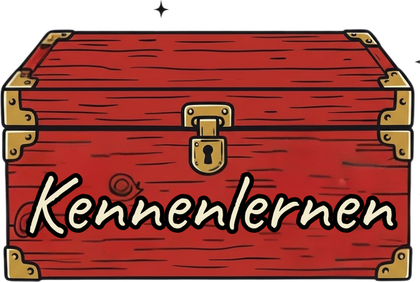
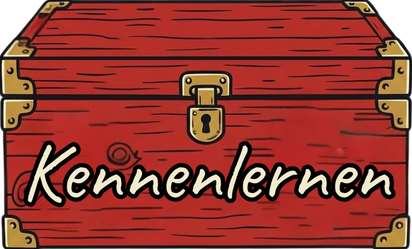
Startseite: Zitat links, Szenenwürfel rechts, Bogentitel, Kisten und Buttons in der Mitte; Kisten enger zugeschnitten
Claude-Session: https://claude.ai/code/session_01QH1x82uT2wp1H8bTWfSHFB

diff --git a/index.html b/index.html
@@ -141,7 +141,23 @@ main{flex:1;min-width:0;padding:20px 16px 110px}
 .start-grid .s2{grid-column:span 2;min-height:200px}
 .start-grid .s3{grid-column:span 3}
 .start-grid .s6{grid-column:1/-1}
-.start-grid .chest{min-height:0;display:flex;justify-content:center;align-items:center;background:none;border:0;padding:0}
+.chest{display:flex;justify-content:center;align-items:center;background:none;border:0;padding:0;min-height:0}
+.start3{display:block}
+.s-mid{display:flex;flex-direction:column;gap:18px;min-width:0}
+.s-left .quote{height:100%;justify-content:center;box-sizing:border-box}
+.startbtns{display:grid;grid-template-columns:1fr 1fr;gap:14px}
+.chests{display:grid;grid-template-columns:repeat(3,minmax(0,1fr));gap:12px;align-items:center;justify-items:center}
+.chests .chest .cbox,.home .chests .chest .cbox{height:auto;width:100%}
+.chests .chest img,.home .chests .chest img{height:auto;width:100%}
+.arc-title{margin:0}
+.arc-title svg{display:block;width:100%;height:auto;overflow:visible}
+.arc-title text{font-family:Gaegu,cursive;font-size:50px;font-weight:700;fill:var(--fg)}
+@media (min-width:900px){
+  .home .inner{max-width:1200px}
+  .start3{display:grid;grid-template-columns:220px minmax(0,1fr) 260px;gap:28px;align-items:stretch}
+  .s-right .gen{height:100%;box-sizing:border-box;justify-content:center}
+  .s-right .gen-slots{grid-template-columns:1fr 1fr}
+}
 .chest .cbox{position:relative;display:inline-block;height:150px}
 .chest img{display:block;height:150px;width:auto}
 .chest:hover img,.chest:focus-visible img{transform:translateY(-3px)}
@@ -334,17 +350,21 @@ const genHTML = () => `<section class="gen" aria-live="polite"><span class="eyeb
 const V = {
   start() {
     const z = zitatHeute();
-    return `<section class="hero"><h1>Der Fundus für alle, die Impro spielen.</h1></section>
-    <div class="quote"><p>„${esc(z.t)}“</p><div class="qfoot"><span class="meta">${esc(z.a)}</span><button class="copybtn" data-quote="1" data-txt="${esc("„" + z.t + "“ – " + z.a)}" aria-label="Zitat kopieren" title="Zitat kopieren"><svg viewBox="0 0 24 24" fill="none" stroke="currentColor" stroke-width="2" stroke-linecap="round" stroke-linejoin="round"><rect x="9" y="9" width="11" height="11" rx="2"/><path d="M5 15V6a2 2 0 0 1 2-2h9"/></svg></button></div></div>
-    <hr class="sep">
+    return `<div class="start3"><aside class="s-left"><div class="quote"><p>„${esc(z.t)}“</p><div class="qfoot"><span class="meta">${esc(z.a)}</span><button class="copybtn" data-quote="1" data-txt="${esc("„" + z.t + "“ – " + z.a)}" aria-label="Zitat kopieren" title="Zitat kopieren"><svg viewBox="0 0 24 24" fill="none" stroke="currentColor" stroke-width="2" stroke-linecap="round" stroke-linejoin="round"><rect x="9" y="9" width="11" height="11" rx="2"/><path d="M5 15V6a2 2 0 0 1 2-2h9"/></svg></button></div></div>
+    </aside>
+    <div class="s-mid"><h1 class="arc-title"><svg viewBox="0 0 1000 170" role="img" aria-label="Der Fundus für alle, die Impro spielen."><defs><path id="arc" d="M40,130 Q500,-10 960,130"/></defs><text><textPath href="#arc" startOffset="50%" text-anchor="middle">Der Fundus für alle, die Impro spielen.</textPath></text></svg></h1>
     <label class="search big"><svg width="18" height="18" viewBox="0 0 24 24" fill="none" stroke="currentColor" stroke-width="2"><circle cx="11" cy="11" r="7"/><path d="m20 20-4-4"/></svg><input id="q2" class="qin" type="search" placeholder="Spiel oder Vorgabe suchen" aria-label="Suchen" value="${esc(S.q)}"></label>
-    <div class="start-grid">
-      <button class="chest s2" data-go="kats" aria-label="Übungen"><span class="cbox"><img src="kiste-uebungen.png" alt="Übungen"></span></button>
-      <button class="chest s2" data-cat="Kennenlernspiele" aria-label="Kennenlernspiele"><span class="cbox"><img src="kiste-kennenlernen.png" alt="Kennenlernspiele"></span></button>
-      <button class="chest s2" data-go="vorgaben" aria-label="Vorgaben"><span class="cbox"><img src="kiste-vorgaben.png" alt="Vorgaben"></span></button>
-      <div class="s6">${genHTML()}</div>
-      <button class="tile s3" data-go="impro"><h3>Was ist eigentlich Impro?</h3><p>Eine kurze Einführung in das Improvisationstheater.</p></button>
-      <button class="tile s3" data-go="einreichen"><h3>Eigene Idee einreichen</h3><p>Du kennst ein Spiel, das hier fehlt? Schick es uns, dann prüfen wir es.</p></button>
+    <div class="chests">
+      <button class="chest" data-go="kats" aria-label="Übungen"><span class="cbox"><img src="kiste-uebungen.png" alt="Übungen"></span></button>
+      <button class="chest" data-cat="Kennenlernspiele" aria-label="Kennenlernspiele"><span class="cbox"><img src="kiste-kennenlernen.png" alt="Kennenlernspiele"></span></button>
+      <button class="chest" data-go="vorgaben" aria-label="Vorgaben"><span class="cbox"><img src="kiste-vorgaben.png" alt="Vorgaben"></span></button>
+    </div>
+    <div class="startbtns">
+      <button class="tile" data-go="impro"><h3>Was ist eigentlich Impro?</h3><p>Eine kurze Einführung in das Improvisationstheater.</p></button>
+      <button class="tile" data-go="einreichen"><h3>Eigene Idee einreichen</h3><p>Du kennst ein Spiel, das hier fehlt? Schick es uns, dann prüfen wir es.</p></button>
+    </div>
+    </div>
+    <aside class="s-right">${genHTML()}</aside>
     </div>`;
   },
 
